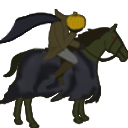
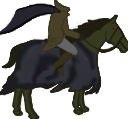
separated body and arm and added aiming

diff --git a/sources/player.h b/sources/player.h
@@ -31,9 +31,13 @@ public:
 	SDL_Point Center;
 	SDL_Rect Pos;
 	SDL_Texture * PlayerIMAGE;
+
+	SDL_Point armCenter;
+	SDL_Rect armPos;
+	SDL_Texture * armImage;
 	int ammoCount;
 	int batCount;
-	int currentHealth;// , maxHealth;
+	int currentHealth; // , maxHealth;
 
 	//health stuff
 	SDL_Rect HBpos;
@@ -54,6 +58,7 @@ public:
 
 	bool flipped; // = false;
 	double angle; // = 0.0;
+	double armAngle;
 	float bob; // = 0;
 	//update floats for precision
 	float pos_X;	// = 0.0f;
@@ -70,6 +75,17 @@ public:
 		Center.x = 64;
 		Center.y = 64;
 		PlayerIMAGE = IMG_LoadTexture(renderer, DIR.c_str());
+
+		DIR = dir + "arm.png";
+		armPos.x = x; // 0
+		armPos.y = y; // 320
+		armPos.w = 128;
+		armPos.h = 128;
+		armCenter.x = 60;
+		armCenter.y = 17;
+		armImage = IMG_LoadTexture(renderer, DIR.c_str());
+		armAngle = 0;
+
 		ammoCount = 10;
 		batCount = 0;
 		flipped = false;
@@ -79,6 +95,7 @@ public:
 		pos_Y = y; //320
 		currentHealth = 100;
 		//maxHealth = 100;
+		fireRate = 0;
 
 		//health HUD
 		DIR = dir + "hback.png";
@@ -147,52 +164,60 @@ public:
 	}
 
 	/*void health(SDL_Renderer * renderer, string dir, int x, int y)
-	{
+	 {
 
-	}*/
+	 }*/
 
-	void update(float deltaTime) {
+	void update(float deltaTime, int mx, int my) {
 		//Update player position code to account for precision loss
 		Pos.x = (int) (pos_X + 0.5f);
 		Pos.y = (int) (pos_Y + 0.5f);
+
 		//for bobbing effect
 		bob += 3 * deltaTime;
 		if (bob > 360)
 			bob = 0;
 		Pos.y += (int) 5 * sin(bob);
+
+		armPos.x =  Pos.x + cos(angle);
+		armPos.y = Pos.y + sin(angle);
+
+		double x = (armPos.x + (60)) - (mx);
+		double y = (armPos.y + (17)) - (my);
+		armAngle = atan2(y, x) * 180 / 3.14;
+
 		angle *= .99;
-		
+
 		if (ammoCount < 0)
 			ammoCount = 0;
 
-		//if (currentHealth > 100)
-		//{
-		//	currentHealth = 100;
-		//}
+		if (currentHealth > 100) {
+			currentHealth = 100;
+		}
 
-		//if (currentHealth < 0)
-		//{
-		//	currentHealth = 0;
-		//}
+		if (currentHealth < 0) {
+			currentHealth = 0;
+		}
 
 		//healthbar status
-		//HMpos.w = (currentHealth / 100) * 268;
-
-		if (HMpos.w > 268)
-			HMpos.w = 268;
-
-
+		HMpos.w = 268 * currentHealth / 100;
+		//HMpos.w = HMpos.w / 100;
 
 	}
 
 	void draw(SDL_Renderer * renderer) {
-		if (flipped)
-			SDL_RenderCopyEx(renderer, PlayerIMAGE, NULL, &Pos, angle,
-					&Center, SDL_FLIP_HORIZONTAL);
-		else
-			SDL_RenderCopyEx(renderer, PlayerIMAGE, NULL, &Pos, angle,
-					&Center, SDL_FLIP_NONE);
+		if (flipped) {
+			SDL_RenderCopyEx(renderer, PlayerIMAGE, NULL, &Pos, angle, &Center,
+					SDL_FLIP_HORIZONTAL);
+			SDL_RenderCopyEx(renderer, armImage, NULL, &armPos, armAngle, &armCenter,
+					SDL_FLIP_HORIZONTAL);
+		} else {
+			SDL_RenderCopyEx(renderer, PlayerIMAGE, NULL, &Pos, angle, &Center,
+					SDL_FLIP_NONE);
 
+			SDL_RenderCopyEx(renderer, armImage, NULL, &armPos, 180+armAngle, &armCenter,
+					SDL_FLIP_NONE);
+		}
 
 		//health back
 		SDL_RenderCopy(renderer, hback, NULL, &HBpos);
@@ -204,13 +229,11 @@ public:
 		//ammo 
 		SDL_RenderCopy(renderer, ammoImage[ammoCount], NULL, &Apos);
 
-
 		//inventory
 		SDL_RenderCopy(renderer, invback, NULL, &Ipos);
 
 		for (int i = 0; i < batCount; i++)
-		SDL_RenderCopy(renderer, batImage[i], NULL, &Ipos);
-
+			SDL_RenderCopy(renderer, batImage[i], NULL, &Ipos);
 
 	}
 

diff --git a/sources/main.cpp b/sources/main.cpp
@@ -8,6 +8,7 @@
 #if defined(__APPLE__)
 #include "SDL2/SDL.h"
 #include "SDL2_image/SDL_image.h"
+#include "unistd.h"
 #endif
 
 #include <stdio.h>
@@ -18,6 +19,7 @@
 #include "player.h"
 #include "scene.h"
 #include "pickup.h"
+#include "turret.h"
 
 using namespace std;
 
@@ -25,6 +27,9 @@ using namespace std;
 float deltaTime = 0.0f;
 int thisTime = 0;
 int lastTime = 0;
+
+int mouseX = 0, mouseY = 0;
+
 
 int main(int argc, char* argv[]) {
 
@@ -96,9 +101,15 @@ int main(int argc, char* argv[]) {
 	Pickup ammo(renderer, images_dir, "ammo+.png", 500, 200);
 	Pickup health(renderer, images_dir, "health+.png", 500, 400);
 	Pickup damage(renderer, images_dir, "health-.png", 500, 600);
-	Pickup bat1(renderer, images_dir, "item.png", 800, 200);
-	Pickup bat2(renderer, images_dir, "item.png", 800, 400);
-	Pickup bat3(renderer, images_dir, "item.png", 800, 600);
+	Pickup *bat[3];
+
+	for (int i = 0; i < 3; i++)
+	{
+		bat[i] = new Pickup(renderer, images_dir, "item.png", 800, 200+i*200);
+	}
+
+	//Make the enemy turrets
+	Turret marksman(renderer, images_dir, 500, 600);
 
 	BKGD.Pos.w = 1024;
 	BKGD.Pos.h = 768;
@@ -122,6 +133,16 @@ int main(int argc, char* argv[]) {
 				quit = true;
 				break;
 			}
+		}
+
+		switch(event.type)
+		{
+
+		case SDL_MOUSEMOTION:
+			mouseX = event.button.x;
+			mouseY = event.button.y;
+			break;
+
 		}
 
 		//to quit the game
@@ -224,8 +245,7 @@ int main(int argc, char* argv[]) {
 		{
 			if (health.active)
 			{
-				//player.currentHealth = 75;
-				player.HMpos.w += 26;
+				player.currentHealth += 25;
 				health.active = false;
 			}
 		}
@@ -235,42 +255,31 @@ int main(int argc, char* argv[]) {
 		{
 			if (damage.active)
 			{
-				//player.currentHealth = 25;
-				player.HMpos.w -= 26;
+				player.currentHealth -= 10;
 				damage.active = false;
 			}
 		}
 
+		for(int i = 0; i < 3; i++)
+		{
 		//check for collision - item 1
-		if (SDL_HasIntersection(&player.Pos, &bat1.Pos))
+		if (SDL_HasIntersection(&player.Pos, &bat[i]->Pos))
 		{
-			if (bat1.active)
+			if (bat[i]->active)
 			{
 				player.batCount++;
-				bat1.active = false;
+				bat[i]->active = false;
 			}
 		}
-		//check for collision - item 2
-		if (SDL_HasIntersection(&player.Pos, &bat2.Pos))
-		{
-			if (bat2.active)
-			{
-				player.batCount++;
-				bat2.active = false;
-			}
-		}
-		//check for collision - item 3
-		if (SDL_HasIntersection(&player.Pos, &bat3.Pos))
-		{
-			if (bat3.active)
-			{
-				player.batCount++;
-				bat3.active = false;
-			}
 		}
 
+
 		//Update
-		player.update(deltaTime);
+		player.update(deltaTime, mouseX, mouseY);
+
+		//player.Pos.x = mouseX;
+		//player.Pos.y = mouseY;
+		marksman.update(deltaTime, player.Pos);
 
 		//foreground and midground
 		FRGD.update();
@@ -294,10 +303,14 @@ int main(int argc, char* argv[]) {
 		ammo.draw(renderer);
 		health.draw(renderer);
 		damage.draw(renderer);
-		bat1.draw(renderer);
-		bat2.draw(renderer);
-		bat3.draw(renderer);
 
+		for (int i = 0; i < 3; i++)
+		{
+			bat[i]->draw(renderer);
+		}
+
+		//draw enemy
+		marksman.draw(renderer);
 
 		//Draw the Player
 		player.draw(renderer);

diff --git a/sources/turret.h b/sources/turret.h
@@ -1,0 +1,91 @@
+/*
+ * turret.h
+ *
+ *  Created on: Aug 1, 2016
+ *      Author: Phillipbadgett
+ */
+
+#ifndef HHRESOURCE_SOURCES_TURRET_H_
+#define HHRESOURCE_SOURCES_TURRET_H_
+
+#if defined(_WIN32) || (_WIN64)
+#include "SDL.h"
+#include "SDl_image.h"
+#include <direct.h>
+#define getcwd _getcwd
+#endif
+
+#if defined(__APPLE__)
+#include "SDL2/SDL.h"
+#include "SDL2_image/SDL_image.h"
+#endif
+
+#include <stdio.h>
+
+using namespace std;
+
+class Turret {
+public:
+
+	string DIR; // = images_dir + "player.png";
+	SDL_Point Center;
+	SDL_Rect Pos;
+	SDL_Texture * image;
+	int health;
+	float angle;
+	bool active;
+	bool flipped;
+
+	Turret(SDL_Renderer * renderer, string dir, int x, int y) {
+		DIR = dir + "marksman.png";
+		Pos.x = x; // 0
+		Pos.y = y; // 320
+		Pos.w = 137;
+		Pos.h = 72;
+		Center.x = 112;
+		Center.y = 41;
+		image = IMG_LoadTexture(renderer, DIR.c_str());
+		health = 5 + rand() % 5;
+		active = true;
+		angle = 0;
+		flipped = false;
+	}
+
+	void update(float deltaTime, SDL_Rect player) {
+		//get the angle between the player and the turret
+		double x = (Pos.x + (Pos.w / 2)) - (player.x + (player.w / 2));
+		double y = (Pos.y + (Pos.h / 2)) - (player.y + (player.h / 2));
+		angle = atan2(y, x) * 180 / 3.14;
+
+		if (angle > 360)
+			angle = 0;
+
+		if (angle < -360)
+			angle = 0;
+
+		if (angle >90 && angle < 270)
+		{
+			flipped = true;
+		}
+		else if(angle < -90 && angle > -270)
+		{
+			flipped = true;
+		}
+		else
+			flipped = false;
+
+	}
+
+	void draw(SDL_Renderer * renderer) {
+		if (flipped)
+			SDL_RenderCopyEx(renderer, image, NULL, &Pos, angle, &Center,
+					SDL_FLIP_VERTICAL);
+		else
+			SDL_RenderCopyEx(renderer, image, NULL, &Pos, angle, &Center,
+					SDL_FLIP_NONE);
+
+	}
+
+};
+
+#endif /* HHRESOURCE_SOURCES_TURRET_H_ */
